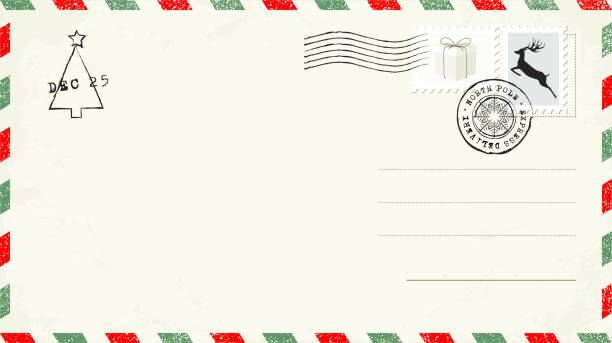
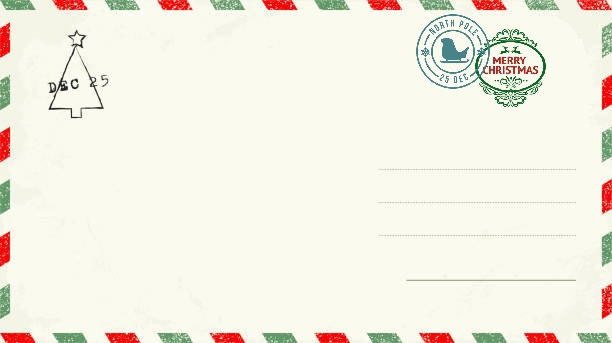
mucho hover

diff --git a/html/styles.css b/html/styles.css
@@ -19,6 +19,7 @@ header {
     flex-direction: row;
     max-height: 10vh;
     align-items: center;
+    z-index: 1000;
 }
 
 header img {
@@ -30,7 +31,7 @@ header img {
 }
 
 header img:hover {
-    box-shadow: 0 0 10px rgba(0, 0, 0, 0.1);
+    box-shadow: 0 0 10px rgb(0, 0, 0);
 }
 
 .menu {
@@ -165,9 +166,19 @@ section h2 {
     color: white;
     border: none;
     padding: 1% 2%;
-    border-radius: 5%;
+    border-radius: 10px;
     cursor: pointer;
     width: 15%;
+    transition: background-color 0.3s ease, transform 0.3s ease;
+}
+
+#home button:hover {
+    background-color: darkred;
+}
+
+#home button:active {
+    background-color: #660000;
+    transform: scale(1.05);
 }
 
 
@@ -189,14 +200,21 @@ section h2 {
 /* Estilos para la imagen */
 .left-column img {
     width: 100%; /* La imagen ocupa el 100% del contenedor */
-    height: auto;
+    height: 100%;
     object-fit: cover;
     border-radius: 3%; /* Bordes redondeados opcionales */
+    transition: background-color 0.3s ease, transform 0.3s ease;
+}
+
+.left-column img:active {
+    box-shadow: 0 0 20px rgba(0, 86, 224, 0.808); /* Sombra al pasar el ratón */
+    transform: scale(1.03);
+    cursor: pointer;
 }
 
 .right-column {
     border-radius: 3%;
-    padding: 2.5%;
+    padding: 0 2.5% 0 2.5%;
     background-color: rgba(128, 128, 128, 0.309);
 }
 
@@ -212,50 +230,60 @@ section h2 {
     line-height: 1.6;
     text-align: justify; /* Justificar el texto */
 }
-
 /* Estilos específicos para la sección de cartas */
 .letters {
     width: 100%;
     display: grid;
-    grid-template-columns: repeat(3, 1fr);
+    grid-template-columns: repeat(3, 1fr); /* 3 columnas */
+    grid-template-rows: auto auto; /* 2 filas automáticas */
     gap: 50px;
-
+    justify-items: center; /* Centra las cartas dentro del grid */
 }
 
 .letter {
-    background-image: url('imgs/carta.jpg'); /* Reemplaza con la ruta de tu imagen de fondo */
-    background-size: cover; /* Ajusta la imagen para que cubra todo el área del contenedor */
+    background-image: url('imgs/carta.jpg'); /* Ruta de la imagen de fondo */
+    background-size: cover; /* La imagen cubrirá todo el contenedor */
     background-position: center; /* Centra la imagen en el contenedor */
     background-repeat: no-repeat; /* Evita que la imagen se repita */
     border: 1px solid #ccc;
-    border-radius: 0%;
     cursor: pointer;
-    padding: 5%;
     width: 100%;
-    height: 100%;
-    display: flex;
-    flex-direction: column; /* Organiza el contenido en columna */
+    height: 0;
+    padding-top: 56.03%; /* Mantiene la relación de aspecto de la imagen (343/612) */
+    position: relative;
+    box-sizing: border-box; /* Para incluir el padding en el cálculo del tamaño */
+    transition: box-shadow 0.3s ease, transform 0.3s ease; /* Añade transición para ambos efectos */
 }
 
 .letter:hover {
-    box-shadow: 0 0 10px rgba(0, 0, 0, 0.1);
+    box-shadow: 0 0 20px rgba(5, 141, 0, 0.698);
+    transform: scale(1.05);
 }
 
 .letter-header {
     display: flex;
-    flex-direction: column; /* Organiza el header en columna */
+    flex-direction: column;
 }
 
 .letter-content {
+    position: absolute;
+    top: 0; /* Alinea el contenido en la parte superior */
+    bottom: 0; /* Alinea el contenido en la parte inferior */
+    left: 0; /* Alinea el contenido al borde izquierdo */
+    right: 0; /* Alinea el contenido al borde derecho */
+    padding: 15px; /* Añade espacio interno */
     display: flex;
-    flex-direction: row; /* Organiza el contenido en fila */
-    gap: 30px;
+    flex-direction: row;
+    align-items: center;
+    gap: 20px; /* Espacio entre la imagen y el texto */
+    box-sizing: border-box;
+    color: black; /* Hace que el texto sea visible sobre el fondo */
 }
 
 .letter img {
-    width: 70px;
-    height: 70px;
-    border-radius: 100%;
+    width: 60px;
+    height: 60px;
+    border-radius: 50%; /* Hace que la imagen sea circular */
 }
 
 

diff --git a/html/prueba.html b/html/prueba.html
@@ -41,9 +41,9 @@
                 <div class="right-column">
                     <h3>¿Quién es Papá Noel?</h3>
                     <p>Papá Noel, también llamado Santa Claus, es un personaje mágico que trae regalos a los niños en la noche de Navidad. Vive en el Polo Norte con sus elfos y renos, que le ayudan a preparar los regalos que reparte por todo el mundo el 24 de diciembre.<br>
-
+                        <br>
                         Papá Noel recibe muchas cartas de niños que le cuentan cómo se han portado y qué regalos desean. Él lee cada una con mucho cariño. En la víspera de Navidad, sube a su trineo volador, tirado por renos, y visita todas las casas dejando regalos bajo el árbol.<br>
-                        
+                        <br>
                         Rudolph, el reno de nariz roja, guía el trineo en la noche oscura. Pero Papá Noel no solo trae regalos, también nos recuerda que lo más importante de la Navidad es compartir amor, alegría y pasar tiempo con la familia.</p>
                 </div>
             </div>
@@ -53,7 +53,6 @@
             <h2>Las cartas</h2>
             <div class="letters">
                 <div class="letter">
-                    <h3>Carta 1</h3>
                     <div class="letter-content">
                         <img src="imgs/nino1.jpg" alt="Remitente 1">
                         <div>
@@ -63,7 +62,6 @@
                     </div>
                 </div>
                 <div class="letter">
-                    <h3>Carta 2</h3>
                     <div class="letter-content">
                         <img src="imgs/nina1.jpg" alt="Remitente 2">
                         <div>
@@ -73,7 +71,6 @@
                     </div>
                 </div>
                 <div class="letter">
-                    <h3>Carta 3</h3>
                     <div class="letter-content">
                         <img src="imgs/nino2.jpg" alt="Remitente 3">
                         <div>
@@ -83,7 +80,6 @@
                     </div>
                 </div>
                 <div class="letter">
-                    <h3>Carta 4</h3>
                     <div class="letter-content">
                         <img src="imgs/nina2.jpg" alt="Remitente 4">
                         <div>
@@ -93,7 +89,6 @@
                     </div>
                 </div>
                 <div class="letter">
-                    <h3>Carta 5</h3>
                     <div class="letter-content">
                         <img src="imgs/nino3.jpg" alt="Remitente 5">
                         <div>
@@ -103,7 +98,6 @@
                     </div>
                 </div>
                 <div class="letter">
-                    <h3>Carta 6</h3>
                     <div class="letter-content">
                         <img src="imgs/nina3.jpg" alt="Remitente 6">
                         <div>
